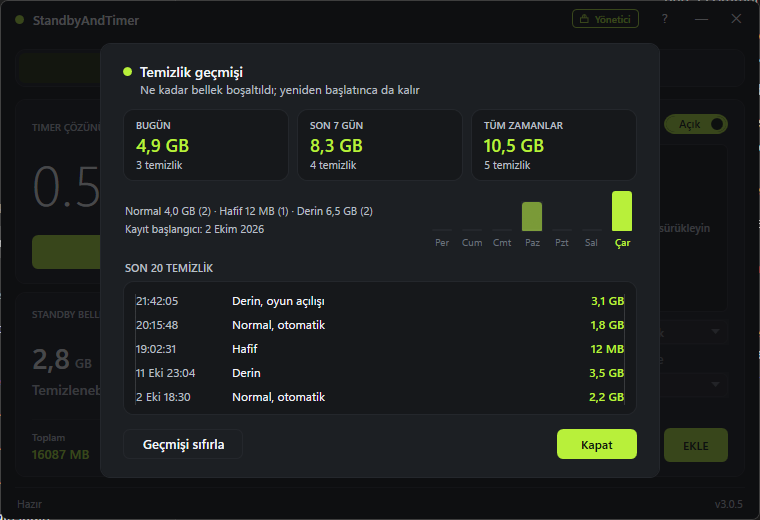
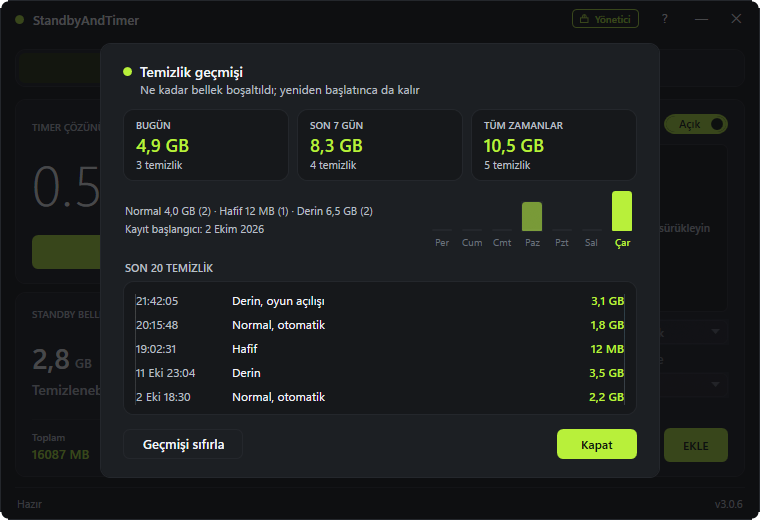
chore: v3.0.6, README text and screenshots with transparent window corners

Changed region(s): [[0.0, 0.0, 1.0, 1.0], [0.0, 0.0, 0.0303, 0.0308]]

diff --git a/README.md b/README.md
@@ -39,13 +39,13 @@ StandbyAndTimer runs in the system tray and does four separate jobs. You can use
 
 - Windows normally ticks its system timer about every 15.6 ms. The app asks for 0.5 ms instead, which can make mouse input and frame timing in games more even. The timer card shows the value Windows really runs at, and your display's refresh rate.
 - Windows keeps recently used files cached in RAM as "standby" memory. When free RAM runs low, this cache can cause stutters. The app clears it when you press the button, or by itself when free memory drops below a limit you set.
-- In Game Mode, the games in your list get High CPU priority and all CPU cores while they run. Drag a game's `.exe` into the list, or let the app add games it sees running fullscreen.
-- The Maintenance tab cleans what you tick: shader caches (NVIDIA, AMD, DirectX, Steam), driver installer leftovers, temp files, Windows Update leftovers, the Delivery Optimization cache, crash dumps, Windows logs, the previous Windows installation (Windows.old) and the Recycle Bin. It sends chosen Downloads to the Recycle Bin, keeps a history with a chart, shows Windows' gaming settings (power plan and mode, virtual memory, GPU scheduling, background recording, memory integrity, Game Mode) with a button to Windows' own page for each, and opens Windows' tools (Optimize drives, Disk Cleanup, system file repair). It never leaves the listed folders, skips files in use, and nothing there runs by itself.
+- In Game Mode, the games in your list get a CPU priority you pick for each game (High or Above normal) and all CPU cores while they run. Each game can also purge the standby memory once when it starts or closes, and decide whether it turns the timer on. Drag a game's `.exe` into the list, scan your Steam and Epic libraries, or let the app add games it sees running fullscreen.
+- The Maintenance tab cleans what you tick: shader caches (NVIDIA, AMD, DirectX, Steam), driver installer leftovers, temp files, Windows Update leftovers, the Delivery Optimization cache, crash dumps, Windows logs, the previous Windows installation (Windows.old) and the Recycle Bin. It sends chosen Downloads to the Recycle Bin, keeps a history with a chart, shows Windows' gaming settings (power plan and mode, virtual memory, GPU scheduling, background recording, memory integrity, Game Mode) with a button to Windows' own page for each, and opens Windows' tools (Optimize drives, Disk Cleanup, system file repair). Auto maintenance (next to Rescan) cleans the safe items in one click and leaves the rest for you to tick; shader caches are never part of it. If you switch it on, it runs by itself the first time the app starts after a number of days you choose (off by default, never while a game runs, nothing runs in the background). It never leaves the listed folders and skips files in use.
 
 ## How to use it
 
 1. Download the installer from the [latest release](https://github.com/Layellie/StandbyAndTimer/releases/latest) and run it. It asks for administrator rights, because changing the timer and memory settings needs them.
-2. Press **TIMER**. If you want the timer on every time the app starts, click **UNLOCKED** on the Timer card to lock it. While the timer is on, Windows does not go to sleep by itself; to change that, pick a time under Settings → General → **Turn the timer off when idle**.
+2. Press **TIMER**. If you want the timer on every time the app starts, click **UNLOCKED** on the Timer card to lock it. While the timer is on, Windows does not go to sleep by itself; to change that, pick a time under Settings → General → **Turn the timer off when idle**. On a laptop, **Turn the timer off on battery** switches it off when you unplug.
 3. Leave **AUTO PURGE** off unless your games stutter when RAM fills up. If they do, turn it on and set the two limits. The **?** button opens a guide to every feature, with suggested limits for each RAM size.
 4. Close the window when you are done. The app keeps working from the tray; right click the tray icon for quick actions.
 
@@ -110,13 +110,13 @@ StandbyAndTimer sistem tepsisinde çalışır ve birbirinden bağımsız dört i
 
 - Windows normalde sistem zamanlayıcısını yaklaşık 15,6 ms'de bir çalıştırır. Uygulama bunun yerine 0,5 ms ister; bu da oyunlarda fare tepkisini ve kare zamanlamasını daha düzenli hale getirebilir. Timer kartı, Windows'un gerçekte çalıştığı değeri ve ekranınızın yenileme hızını gösterir.
 - Windows yakın zamanda kullanılan dosyaları RAM'de "standby" bellek olarak tutar. Boş RAM azaldığında bu önbellek takılmalara yol açabilir. Uygulama bu belleği siz butona bastığınızda ya da boş bellek belirlediğiniz sınırın altına düştüğünde kendiliğinden temizler.
-- Game Mode açıksa listedeki oyunlar, çalıştıkları sürece Yüksek CPU önceliği ve tüm işlemci çekirdeklerini alır. Oyunun `.exe` dosyasını listeye sürükleyebilir ya da uygulamanın tam ekranda çalışan oyunları kendisinin eklemesini bekleyebilirsiniz.
-- Bakım sekmesi, tiklediklerinizi temizler: shader önbellekleri (NVIDIA, AMD, DirectX, Steam), sürücü kurulum artıkları, geçici dosyalar, Windows Update artıkları, Teslimat İyileştirme önbelleği, çökme dökümleri, Windows günlükleri, eski Windows kurulumu (Windows.old) ve Geri Dönüşüm Kutusu. İndirilenler'den seçtiklerinizi Geri Dönüşüm Kutusu'na taşır, grafikli bir geçmiş tutar, Windows'un oyunla ilgili ayarlarını (güç planı ve modu, sanal bellek, GPU zamanlaması, arka planda kayıt, bellek bütünlüğü, Oyun Modu) her biri için Windows'un kendi sayfasını açan bir butonla gösterir ve Windows'un araçlarını (Sürücüleri iyileştir, Disk Temizleme, sistem dosyası onarımı) açar. Listedeki klasörlerin dışına çıkmaz, kullanımdaki dosyaları atlar; oradaki hiçbir şey kendiliğinden çalışmaz.
+- Game Mode açıksa listedeki oyunlar, çalıştıkları sürece her oyun için seçtiğiniz CPU önceliğini (Yüksek ya da Normalin üstü) ve tüm işlemci çekirdeklerini alır. Her oyun ayrıca açılırken ya da kapanırken standby belleği bir kez temizleyebilir ve timer'ı açıp açmayacağına karar verebilir. Oyunun `.exe` dosyasını listeye sürükleyebilir, Steam ve Epic kütüphanelerinizi taratabilir ya da uygulamanın tam ekranda çalışan oyunları kendisinin eklemesini bekleyebilirsiniz.
+- Bakım sekmesi, tiklediklerinizi temizler: shader önbellekleri (NVIDIA, AMD, DirectX, Steam), sürücü kurulum artıkları, geçici dosyalar, Windows Update artıkları, Teslimat İyileştirme önbelleği, çökme dökümleri, Windows günlükleri, eski Windows kurulumu (Windows.old) ve Geri Dönüşüm Kutusu. İndirilenler'den seçtiklerinizi Geri Dönüşüm Kutusu'na taşır, grafikli bir geçmiş tutar, Windows'un oyunla ilgili ayarlarını (güç planı ve modu, sanal bellek, GPU zamanlaması, arka planda kayıt, bellek bütünlüğü, Oyun Modu) her biri için Windows'un kendi sayfasını açan bir butonla gösterir ve Windows'un araçlarını (Sürücüleri iyileştir, Disk Temizleme, sistem dosyası onarımı) açar. Otomatik bakım (Yenile'nin yanında) güvenli olanları tek tıkla temizler, gerisini sizin işaretlemenize bırakır; shader önbellekleri bunun hiçbir zaman parçası değildir. Açarsanız, seçtiğiniz gün sayısı geçtikten sonra uygulama ilk açıldığında kendiliğinden çalışır (varsayılan kapalı, oyun çalışırken asla, arka planda hiçbir şey çalışmaz). Listedeki klasörlerin dışına çıkmaz, kullanımdaki dosyaları atlar.
 
 ## Nasıl kullanılır?
 
 1. Kurulum dosyasını [son sürümden](https://github.com/Layellie/StandbyAndTimer/releases/latest) indirip çalıştırın. Timer ve bellek ayarlarını değiştirmek yönetici yetkisi gerektirdiği için kurulum bu yetkiyi ister.
-2. **TIMER** butonuna basın. Timer'ın uygulama her açıldığında açık gelmesini istiyorsanız Timer kartındaki **KİLİTSİZ** yazısına tıklayıp kilitleyin. Timer açıkken Windows kendiliğinden uykuya geçmez; bunu değiştirmek için Ayarlar → Genel → **Boştayken timer'ı kapat** altından bir süre seçin.
+2. **TIMER** butonuna basın. Timer'ın uygulama her açıldığında açık gelmesini istiyorsanız Timer kartındaki **KİLİTSİZ** yazısına tıklayıp kilitleyin. Timer açıkken Windows kendiliğinden uykuya geçmez; bunu değiştirmek için Ayarlar → Genel → **Boştayken timer'ı kapat** altından bir süre seçin. Dizüstünde **Pildeyken timer'ı kapat** seçeneği, fişi çekince timer'ı kapatır.
 3. Oyunlarınız RAM dolduğunda takılmıyorsa **OTO TEMİZLE**'yi kapalı bırakın. Takılıyorsa açın ve iki sınırı ayarlayın. **?** butonu her özelliği anlatan bir kılavuz açar; her RAM boyutu için önerilen sınırlar da orada.
 4. İşiniz bitince pencereyi kapatın. Uygulama tepside çalışmaya devam eder; hızlı işlemler için tepsi simgesine sağ tıklayın.
 
